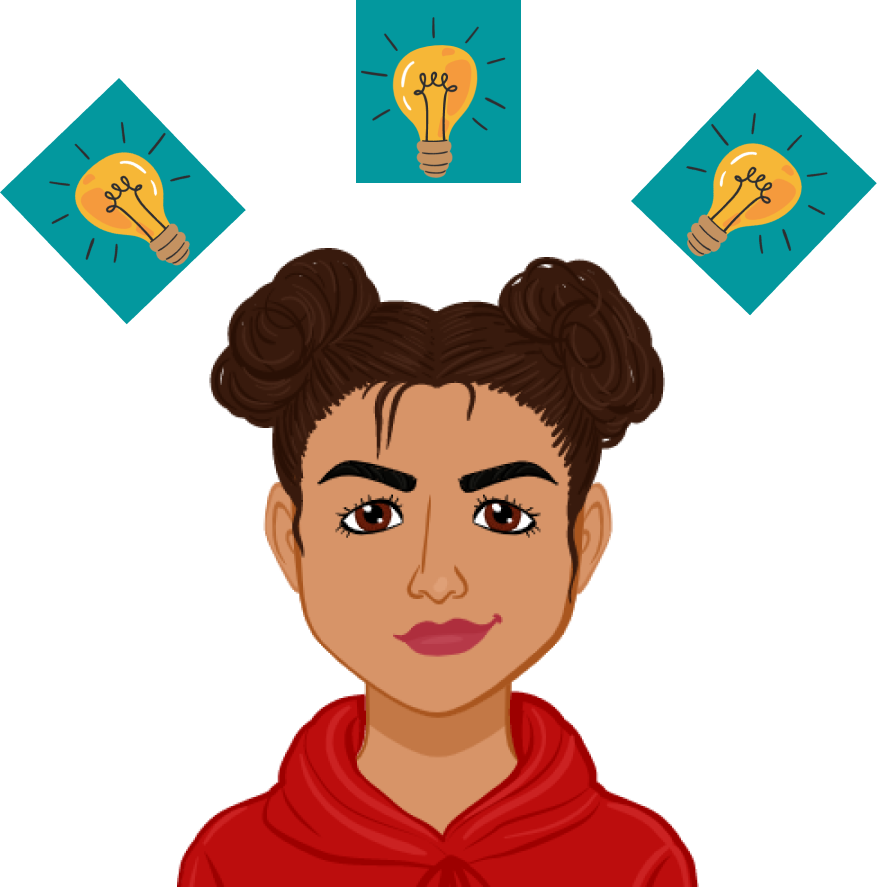
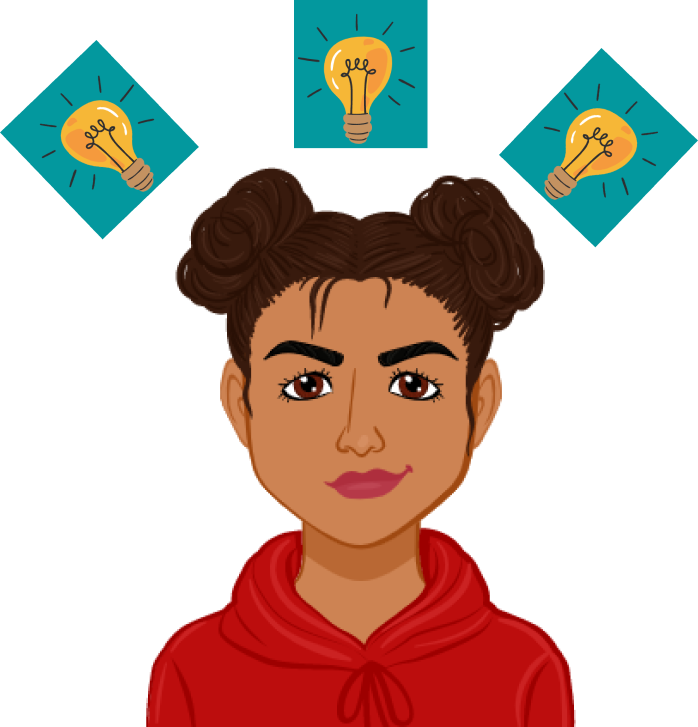
Complete home page

Changed region(s): [[0.1805, 0.0, 1.0, 1.0], [0.0, 0.0605, 0.3009, 0.3631], [0.7221, 0.9684, 0.7521, 1.0]]

diff --git a/portfolio/Components/MainHeadings/MainHeadings.module.css b/portfolio/Components/MainHeadings/MainHeadings.module.css
@@ -1,6 +1,7 @@
+/* Title Design   */
 .MainHeading {
     display: flex;
-    justify-content: center;
+    justify-content: flex-start;
     align-items: center;
     text-align: center;
     font-style: italic;
@@ -11,18 +12,17 @@
     font-family: 'Barlow Condensed', sans-serif;
     -webkit-text-stroke-width: 1px;
     -webkit-text-stroke-color: rgb(96, 90, 90);
-    text-shadow: 5px 5px 5px rgba(0, 0, 0, 0.25);    
-    margin-top: 2em;
+    text-shadow: 5px 5px 5px rgba(0, 0, 0, 0.25);  
+    width: 800px;
     margin-bottom: 0px;
+    /* margin-left: 5em; */
 }
 
-
-
-
+/* SubHeading Design   */
 .SubHeading {
-    display: flex;
-    justify-content: center;
-    align-items: center;
+    /* display: flex;
+    justify-content: flex-start;
+    align-items: center; */
     font-style: italic;
     font-weight: 700;
     font-size: 60px;
@@ -34,9 +34,20 @@
     text-shadow: 5px 5px 5px rgba(0, 0, 0, 0.25);
 }
 
-.MainHeadingContainer{
+/* Container for both Design   */
+.MainTitleContainer{
     display: flex;
     justify-content: flex-start;
     align-items: center;
+    flex-direction: column;  
     margin-left: 5em;
+    /* background-color: red; */
+}
+
+.HomePageContainer{
+    display: flex;
+    align-items: center;
+    max-width: 100vw;
+
+
 }

diff --git a/portfolio/pages/index.js b/portfolio/pages/index.js
@@ -3,14 +3,22 @@ import styles from '../styles/Home.module.css'
 import Subheading from "../Components/MainHeadings/SubHeading"
 import NavBar from "../Components/NavBar/NavBar"
 import Avatar from "../Components/Avatar/Avatar"
+import HomePageContainer from "../Components/HomePageContainer/HomePageContainer"
+import MainTitleContainer from "../Components/HomePageContainer/MainTitleContainer"
+
 
 export default function Home() {
   return (
     <div>
       <NavBar/>
+      <HomePageContainer>
+        <MainTitleContainer>
       <MainHeadings/>
       <Subheading/>
+      </MainTitleContainer>
       <Avatar/>
+      </HomePageContainer>
+      
     </div>
   )
 }

diff --git a/portfolio/Components/MainHeadings/MainHeading.js b/portfolio/Components/MainHeadings/MainHeading.js
@@ -1,9 +1,14 @@
+// import { Children } from "react";
 import Style from "./MainHeadings.module.css";
 
 export default function MainHeading (){
     return (
-        <div className={Style.MainHeadingContainer}>
-        <h1 className={Style.MainHeading}>Amira Gucher-Blackman</h1>
+        <>
+        <div className={Style.HomePageContainer}>
+            <div className={Style.MainTitleContainer}>
+            <h1 className={Style.MainHeading}>Amira Gucher-Blackman</h1>
+            </div>
         </div>
+        </>
     )
 }

diff --git a/portfolio/Components/Avatar/Avatar.module.css b/portfolio/Components/Avatar/Avatar.module.css
@@ -1,8 +1,23 @@
 .Avatar {
     background-image: url("./Avatar.png");
     background-repeat: no-repeat;
-    min-width: 100%;
-    min-height: 8000px;
-    /* height: 10000px; */
+    min-height: 720px;
+    display: flex;
+    justify-content: center;
+    width: 780px;
+    margin-top: 3em;
 
 }
+
+/* .AvatarContainer{
+    display: flex;
+    justify-content: flex-end;
+    align-items: flex-end;
+   margin-bottom: 0px;
+} */
+
+.HomePageContainer{
+    display: flex;
+    justify-content: flex-end;
+}
+

diff --git a/portfolio/Components/MainHeadings/SubHeading.js b/portfolio/Components/MainHeadings/SubHeading.js
@@ -1,9 +1,11 @@
 import Style from "./MainHeadings.module.css"
 
-export default function MainHeading (){
+export default function SubHeading (){
     return (
-        <div className={Style.MainHeadingContainer}>
+        <div className={Style.HomePageContainer}>
+        <div className={Style.MainTitleContainer}>
         <h1 className={Style.SubHeading}>{"<Full-Stack Web Developer/>"}</h1>
         </div>
+         </div>
     )
 }

diff --git a/portfolio/Components/HomePageContainer/HomePageContainer.js b/portfolio/Components/HomePageContainer/HomePageContainer.js
@@ -1,0 +1,9 @@
+import Style from "./HomePageContainer.module.css";
+
+export default function HomePageContainer ({children}){
+    return (
+        <>
+        <div className={Style.HomePageContainer}>{children}</div>
+        </>
+    )
+}

diff --git a/portfolio/Components/Avatar/Avatar.js b/portfolio/Components/Avatar/Avatar.js
@@ -2,6 +2,8 @@ import Style from "./Avatar.module.css"
 
 export default function Avatar (){
     return (
+        <div className={Style.HomePageContainer}>
         <div className={Style.Avatar}></div>
+        </div>
     )
 }

diff --git a/portfolio/Components/HomePageContainer/MainTitleContainer.js b/portfolio/Components/HomePageContainer/MainTitleContainer.js
@@ -1,0 +1,7 @@
+import Style from "./HomePageContainer.module.css"
+
+export default function MainTitleContainer ({children}){
+    return (
+        <div className={Style.MainTitleContainer}>{children}</div>
+    )
+}

diff --git a/portfolio/Components/HomePageContainer/HomePageContainer.module.css b/portfolio/Components/HomePageContainer/HomePageContainer.module.css
@@ -1,0 +1,7 @@
+.HomePageContainer{
+    display: flex;
+    align-items: center;
+    justify-content: center;
+    width: 100vw;
+    height: 90vh;    
+}

diff --git a/portfolio/Components/NavBar/NavBar.module.css b/portfolio/Components/NavBar/NavBar.module.css
@@ -43,6 +43,7 @@
 	line-height: 36px;
 	text-align: center;
 	text-decoration-line: underline; 
+	box-shadow: 5px 4px 5px rgba(0, 0, 0, 0.25);
 
 }
 
